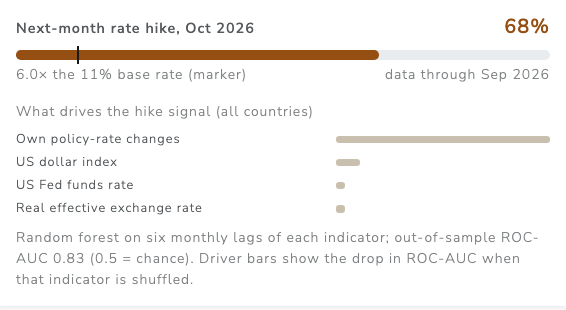
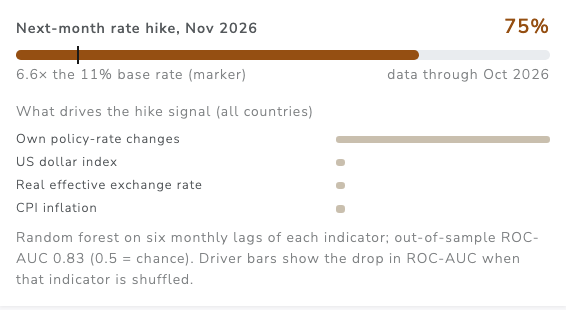
Regenerate demo screenshots and batch statistics after the November forecast run

diff --git a/README.md b/README.md
@@ -260,7 +260,7 @@ flowchart LR
 - **Nominal vs. real rate** are separate regressors. Schischke & Rathgeber (2025) document a sign reversal in the rate–commodity response between the pre-2008 and ZLB regimes. In a ZLB regime the nominal rate is near-constant while the real rate varies. Date-window filtering supports split-sample (pre/post-2008) tests directly.
 - **Transmission channels** are tagged per article by the extractor (`mechanisms`). Each has a proxy regressor: cost of carry → `real_interest_rate`; USD channel → `usd_index`; portfolio substitution → `treasury_yield_10y`; extraction incentives → `production_volume_change` (metals only, currently NULL pending USGS ingest).
 - **Caveats:** associations are not causal. The control/lag search over 7 × 4 specifications is a specification search, and *R*² values are in-sample. FRED global series (`country_code IS NULL`) do not enter country panels.
-- **Multiplicity:** of 940 specifications (production batch), 245 (26.1%) have *p* < 0.05 against ~5% expected under the null. 54 survive Benjamini–Hochberg FDR at 5%, and 11 survive Bonferroni. Each result stores its q-value, and the panel badge reports FDR-robustness (`notebooks/02`, `pg.multicomp`). Most BH survivors are *real rate → nickel price at t+2* across euro members, which share one ECB rate, so they are not independent findings.
+- **Multiplicity:** of 940 specifications (production batch), 249 (26.5%) have *p* < 0.05 against ~5% expected under the null. 52 survive Benjamini–Hochberg FDR at 5%, and 11 survive Bonferroni. Each result stores its q-value, and the panel badge reports FDR-robustness (`notebooks/02`, `pg.multicomp`). Most BH survivors are *real rate → nickel price at t+2* across euro members, which share one ECB rate, so they are not independent findings.
 
 ### Representative results (local warehouse, current batch)
 
@@ -395,12 +395,12 @@ Screenshots of [mp-commodities-corr.web.app](https://mp-commodities-corr.web.app
 | Hike-probability layer ([`?layer=hike`](https://mp-commodities-corr.web.app/?layer=hike)) | Correlation panel with FDR *q*-value |
 | --- | --- |
 | ![Hike-probability map](images/02-hike-probability-map.png) | ![Correlation panel](images/03-correlation-panel.png) |
-| Single-hue ramp: *P*(policy-rate hike in Oct 2026) per country from the random-forest classifier | *r*, partial *r*, *p*, Benjamini–Hochberg *q* across 940 tests, *R*², best-fit lag, Gemini interpretation |
+| Single-hue ramp: *P*(policy-rate hike in Nov 2026) per country from the random-forest classifier | *r*, partial *r*, *p*, Benjamini–Hochberg *q* across 940 tests, *R*², best-fit lag, Gemini interpretation |
 
 | Next-month rate-hike forecast | Live news feed (rules-first tagging) |
 | --- | --- |
 | ![Hike forecast](images/04-hike-forecast.png) | ![News feed](images/05-news-feed.png) |
-| US: 68%, 6.0× the 11% base rate; out-of-sample ROC-AUC 0.83; permutation-importance drivers | Category tabs, sentiment/stance/subtype badges, `auto` (rules) vs `LLM` (Gemini-refined) provenance |
+| US: 75% for Nov 2026, 6.6× the 11% base rate; out-of-sample ROC-AUC 0.83; permutation-importance drivers | Category tabs, sentiment/stance/subtype badges, `auto` (rules) vs `LLM` (Gemini-refined) provenance |
 
 <p align="center"><img src="images/06-mobile.png" alt="Mobile view at 390 px" width="320"><br><em>Mobile (390 px): stacked layout, no horizontal scroll</em></p>
 
@@ -410,7 +410,7 @@ Screenshots of [mp-commodities-corr.web.app](https://mp-commodities-corr.web.app
 
 - **Data engineering.** Built a serverless GCP ETL (Cloud Functions, Cloud Scheduler, Cloud Storage → BigQuery star schema, DuckDB for local dev) covering **218 economies**. Macro ingestion was refactored from ~120 per-country calls to **12 bulk API requests** (BIS, World Bank WDI, FRED), loading **541k indicator rows**. Policy-rate coverage grew from 11 to **59 countries** by splicing the ECB rate onto euro members from each adoption date.
 - **NLP pipeline.** Restored a news feed that had stored **0 of 5,350** queued articles with a rules-first dictionary tagger plus batched Gemini refinement (20 articles/call, model fallback). Result: **5,373 articles tagged across 103 countries** and **20× LLM throughput** (15 → 300 articles/day) within the same free quota. Rules agree with the LLM on 100% of categories and 90% of sector sets.
-- **Statistical inference.** Lagged partial-correlation and OLS batch over **1,308 country × sector pairs** (940 estimable results), with empirical control selection. Closed-form NumPy kernels are **3.6× faster** than Pingouin with 3.1e-15 parity, and panel construction is **13× faster** (25.2 s → 1.9 s). Benjamini–Hochberg FDR correction, now surfaced in the UI, shows only **54 of 940** specifications survive versus 245 at raw *p* < 0.05.
+- **Statistical inference.** Lagged partial-correlation and OLS batch over **1,308 country × sector pairs** (940 estimable results), with empirical control selection. Closed-form NumPy kernels are **3.6× faster** than Pingouin with 3.1e-15 parity, and panel construction is **13× faster** (25.2 s → 1.9 s). Benjamini–Hochberg FDR correction, now surfaced in the UI, shows only **52 of 940** specifications survive versus 249 at raw *p* < 0.05.
 - **Machine learning.** Benchmarked 10 algorithms (regularized regression, SVM, k-NN, random forest, gradient boosting, MLP, logistic regression, naive Bayes) under walk-forward validation, with Diebold–Mariano tests. Deployed a random-forest next-month rate-hike classifier for **57 countries**: out-of-sample **ROC-AUC 0.83 vs 0.63** for persistence. It uses publication-lag-aware features, and permutation-importance drivers are shown in the UI.
 - **Platform and delivery.** FastAPI on Cloud Run with TTL caching, Terraform IaC with **zero plan drift**, canary-tested deploys, and a Bootswatch Lux frontend on Firebase Hosting. The frontend has a world map plotting **all 218 economies** across every continent, a hike-probability layer, deep links (`?country=`, `?sector=`, `?layer=hike`) and CSV/XLSX/PDF export. The whole system runs within GCP's Always Free tier.
 - **Production reliability.** Diagnosed and fixed four latent failures that surfaced on the first full production run:
